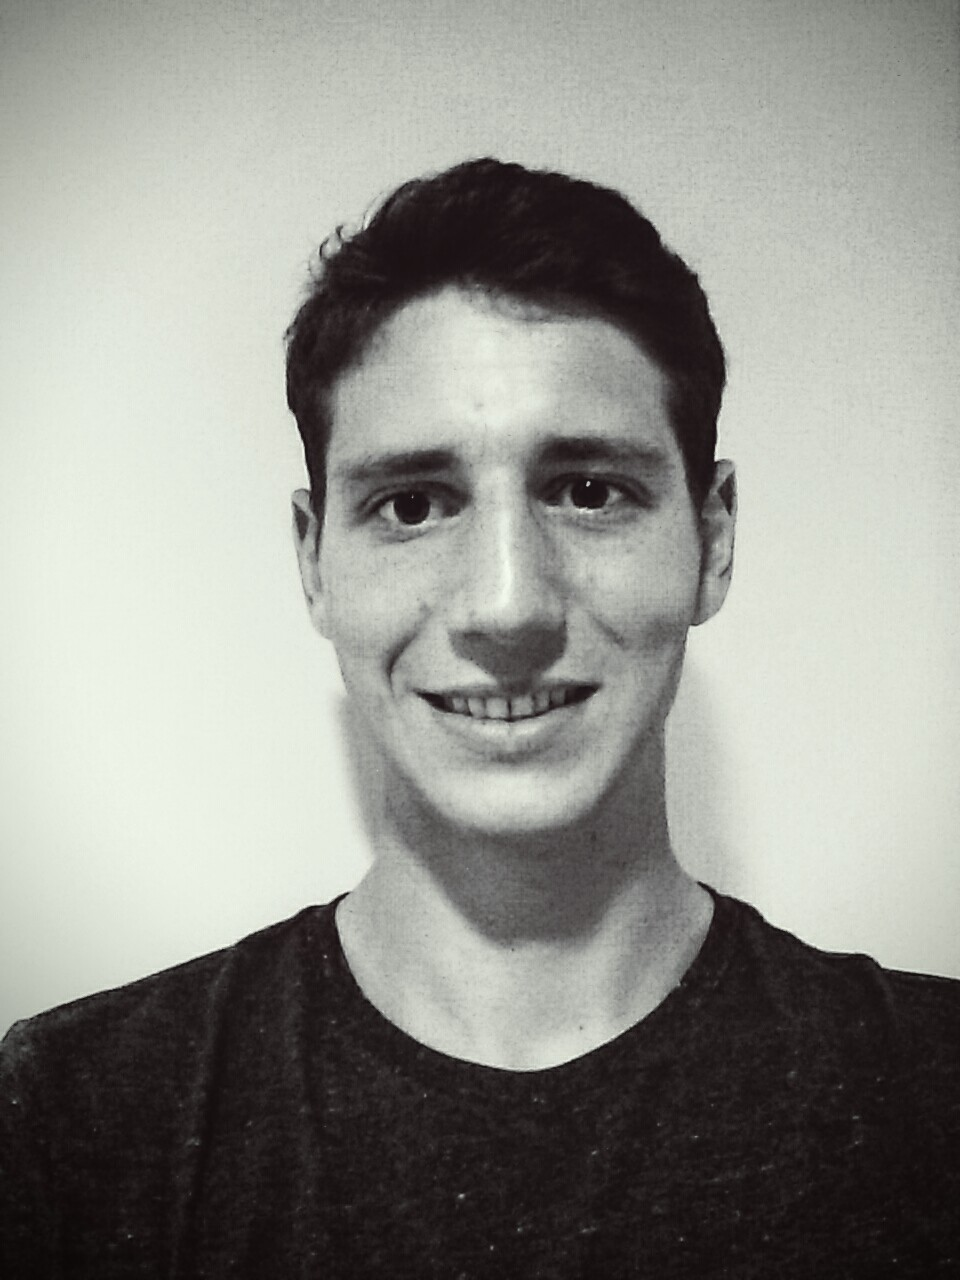
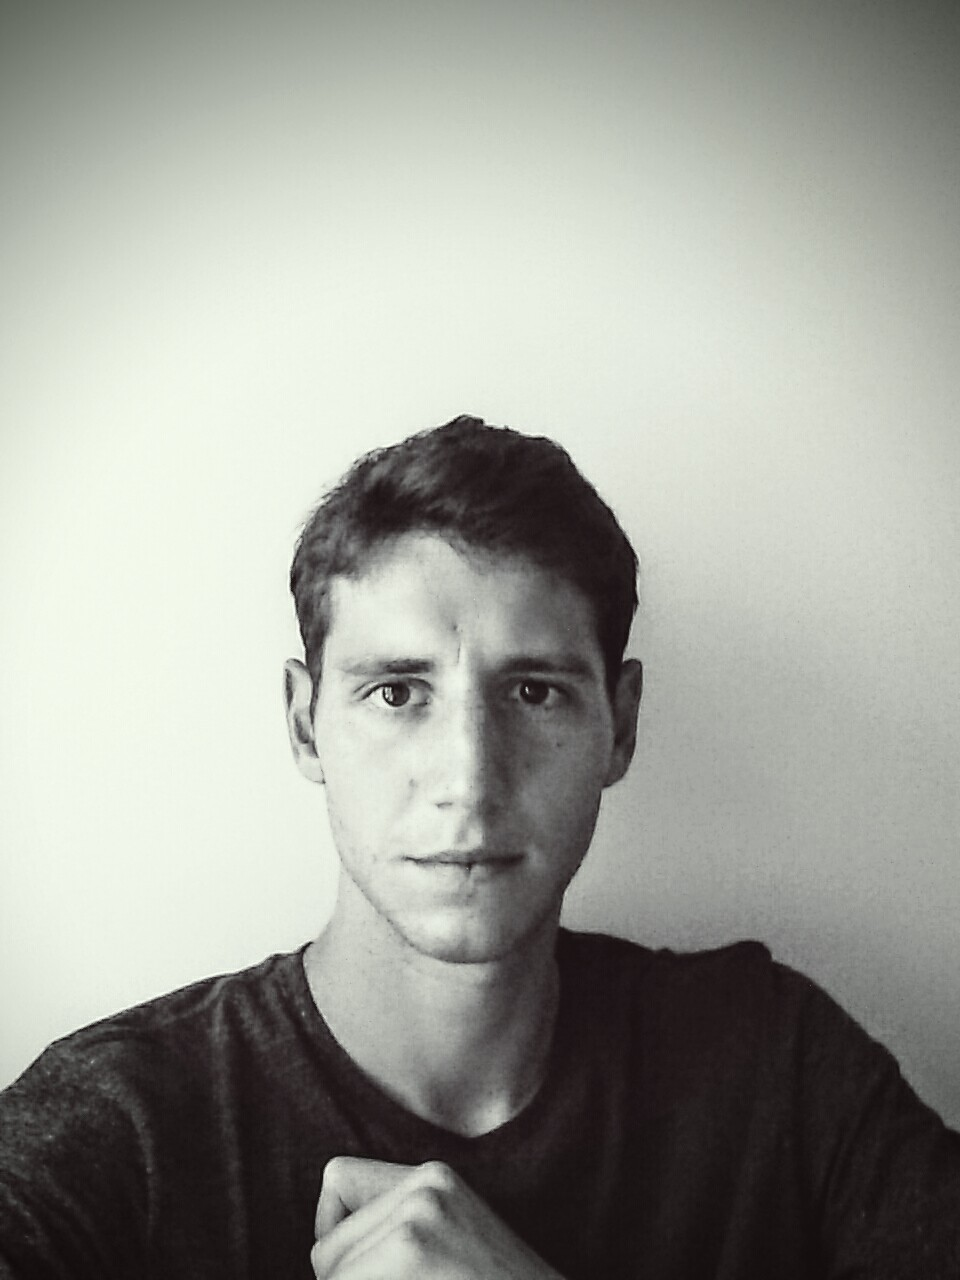
added image wrapper

diff --git a/app/assets/stylesheets/resume_pages.css.scss b/app/assets/stylesheets/resume_pages.css.scss
@@ -9,8 +9,8 @@ html, body { color: #434242; font-family: 'Open Sans', sans-serif !important; he
 body {font-size: 15px;line-height: 1.64;}
 hr { margin: 40px 0px; border-color: #727878; opacity: 0.2; filter:alpha(opacity=20); }
 
-.btn-primary { background-color: #22A39F; border-color: #1c8784; }
-.btn-primary:hover { background-color: #1c8784;  border-color: #1c8784; }
+.btn-primary { background-color: SlateGray; border-color: Silver; }
+.btn-primary:hover { background-color: DimGray;  border-color: Silver; }
 
 h1 {
   font-size: 46px;
@@ -93,7 +93,7 @@ ul.no-bullets {list-style-type: none;margin: 0px;padding: 0px;}
   padding: 200px;
   z-index: 10;
 
-  background: no-repeat center fixed image-url('background2.jpg');
+  background: no-repeat center fixed image-url('background3.jpg');
   background-size: cover;
   margin-bottom: 0px;
   background-color: #708090;
@@ -206,7 +206,7 @@ ul.no-bullets {list-style-type: none;margin: 0px;padding: 0px;}
         padding: 12px 12px 12px 12px;
     }
     #section-topbar ul#nav p.lead {
-      font-size: 100%;
+      font-size: 130%;
     }
 }
 
@@ -294,6 +294,32 @@ body .ui-tooltip {
     display: none;
 }
 
+#section-profile .col-md-4 {
+    padding: 0;
+}
+
+#section-profile .img_wrapper {
+  display: inline-block;
+  overflow: hidden;
+}
+#section-profile .img_profile {
+  height: 220px;
+  width: 180px;
+  -webkit-transition: all 0.5s ease; /* Safari and Chrome */
+  -moz-transition: all 0.5s ease; /* Firefox */
+  -ms-transition: all 0.5s ease; /* IE 9 */
+  -o-transition: all 0.5s ease; /* Opera */
+  transition: all 0.5s ease;
+}
+
+#section-profile .img_profile:hover {
+  -webkit-transform:scale(1.25); /* Safari and Chrome */
+  -moz-transform:scale(1.25); /* Firefox */
+  -ms-transform:scale(1.25); /* IE 9 */
+  -o-transform:scale(1.25); /* Opera */
+  transform:scale(1.25);
+}
+
 // Section Experience
 //---------------------------------//
 #section-experience {
@@ -317,7 +343,7 @@ body .ui-tooltip {
 //---------------------------------//
 
 #section-contact {
-    background: #434242;
+    background: #161616;
     font: normal 16px/26px 'PT Serif', Georgia, serif;
     padding: 60px 0 20px 0;
 }
@@ -333,4 +359,54 @@ body .ui-tooltip {
 #section-contact span {
     color: Silver;
     padding-left: 20px;
+}
+
+#section-contact input, #section-contact textarea, #section-contact select {
+    width: 280px;
+    padding: 14px 20px;
+    color: #eee;
+    background: #333;
+    margin: 0 0 35px 0;
+    border: 0;
+    outline: none;
+}
+
+#section-contact button.submit {
+    font: bold 20px/30px 'Open Sans', "Helvetica Neue", Helvetica, Arial, sans-serif;
+    text-transform: uppercase;
+    letter-spacing: 4px;
+    display: block;
+    cursor: pointer;
+    color: #fff;
+    background: #df4244;
+    padding: 20px 28px;
+    border: none;
+    -moz-border-radius: 3px;
+    -webkit-border-radius: 3px;
+    -khtml-border-radius: 3px;
+    border-radius: 3px;
+}
+
+@media only screen and (max-width: 767px) {
+  #section-contact input, #section-contact textarea, #section-contact select {
+    width: 260px;
+  }
+}
+
+/*
+ *Scrolling
+ */
+
+a[ id= "head" ]:target ~ #section-head div.container-fluid {
+    -webkit-transform: translateY( 0px);
+    transform: translateY( 0px );
+}
+
+a[ id= "profile" ]:target ~ #section-profile div.container{
+    -webkit-transform: translateY( -500px );
+    transform: translateY( -500px );
+}
+a[ id= "Experiences" ]:target ~ #section-experience{
+    -webkit-transform: translateY( -1000px );
+    transform: translateY( -1000px );
 }

diff --git a/config/environment.rb b/config/environment.rb
@@ -3,3 +3,16 @@ require File.expand_path('../application', __FILE__)
 
 # Initialize the Rails application.
 Rails.application.initialize!
+
+# I recommend using this line to show error
+config.action_mailer.raise_delivery_errors = true
+
+ActionMailer::Base.smtp_settings = {
+  :address        => 'smtp.gmail.com',
+  :domain         => 'mail.google.com',
+  :port           => 587,
+  :user_name      => 'antoine.petit.callmann@gmail.com',
+  :password       => 'kuja24GMAIL',
+  :authentication => :plain,
+  :enable_starttls_auto => true
+}
